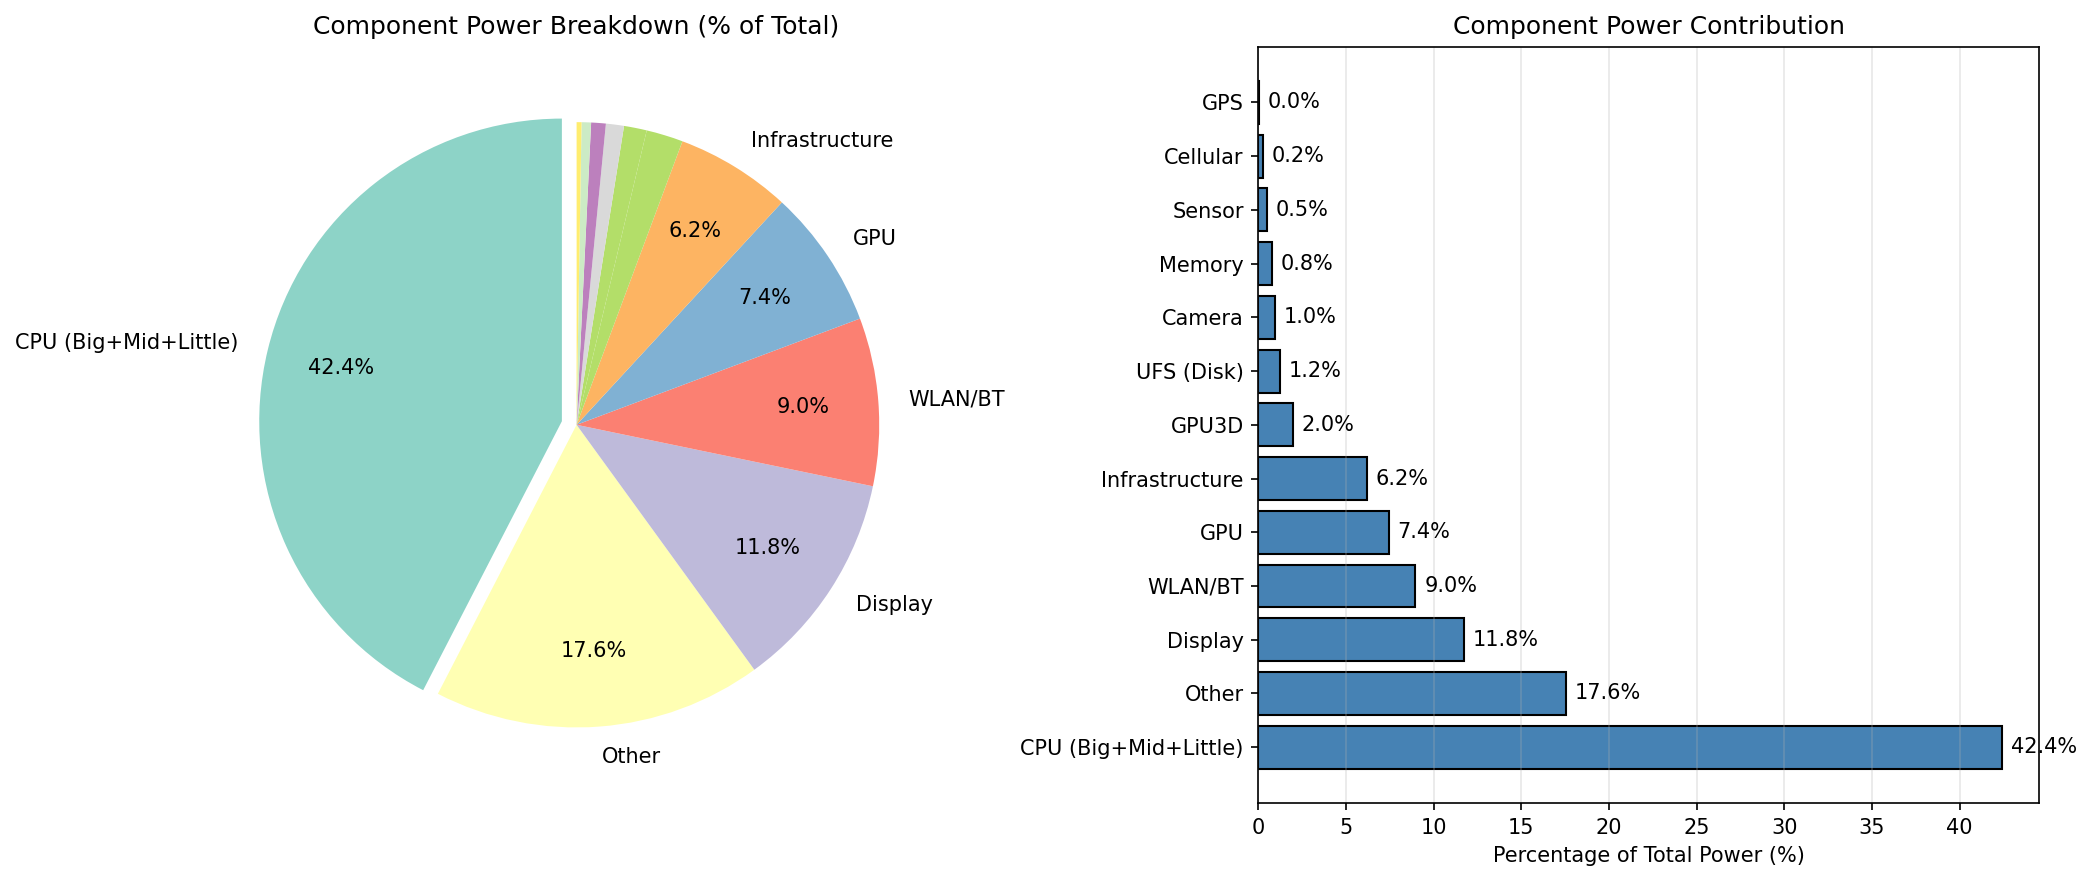
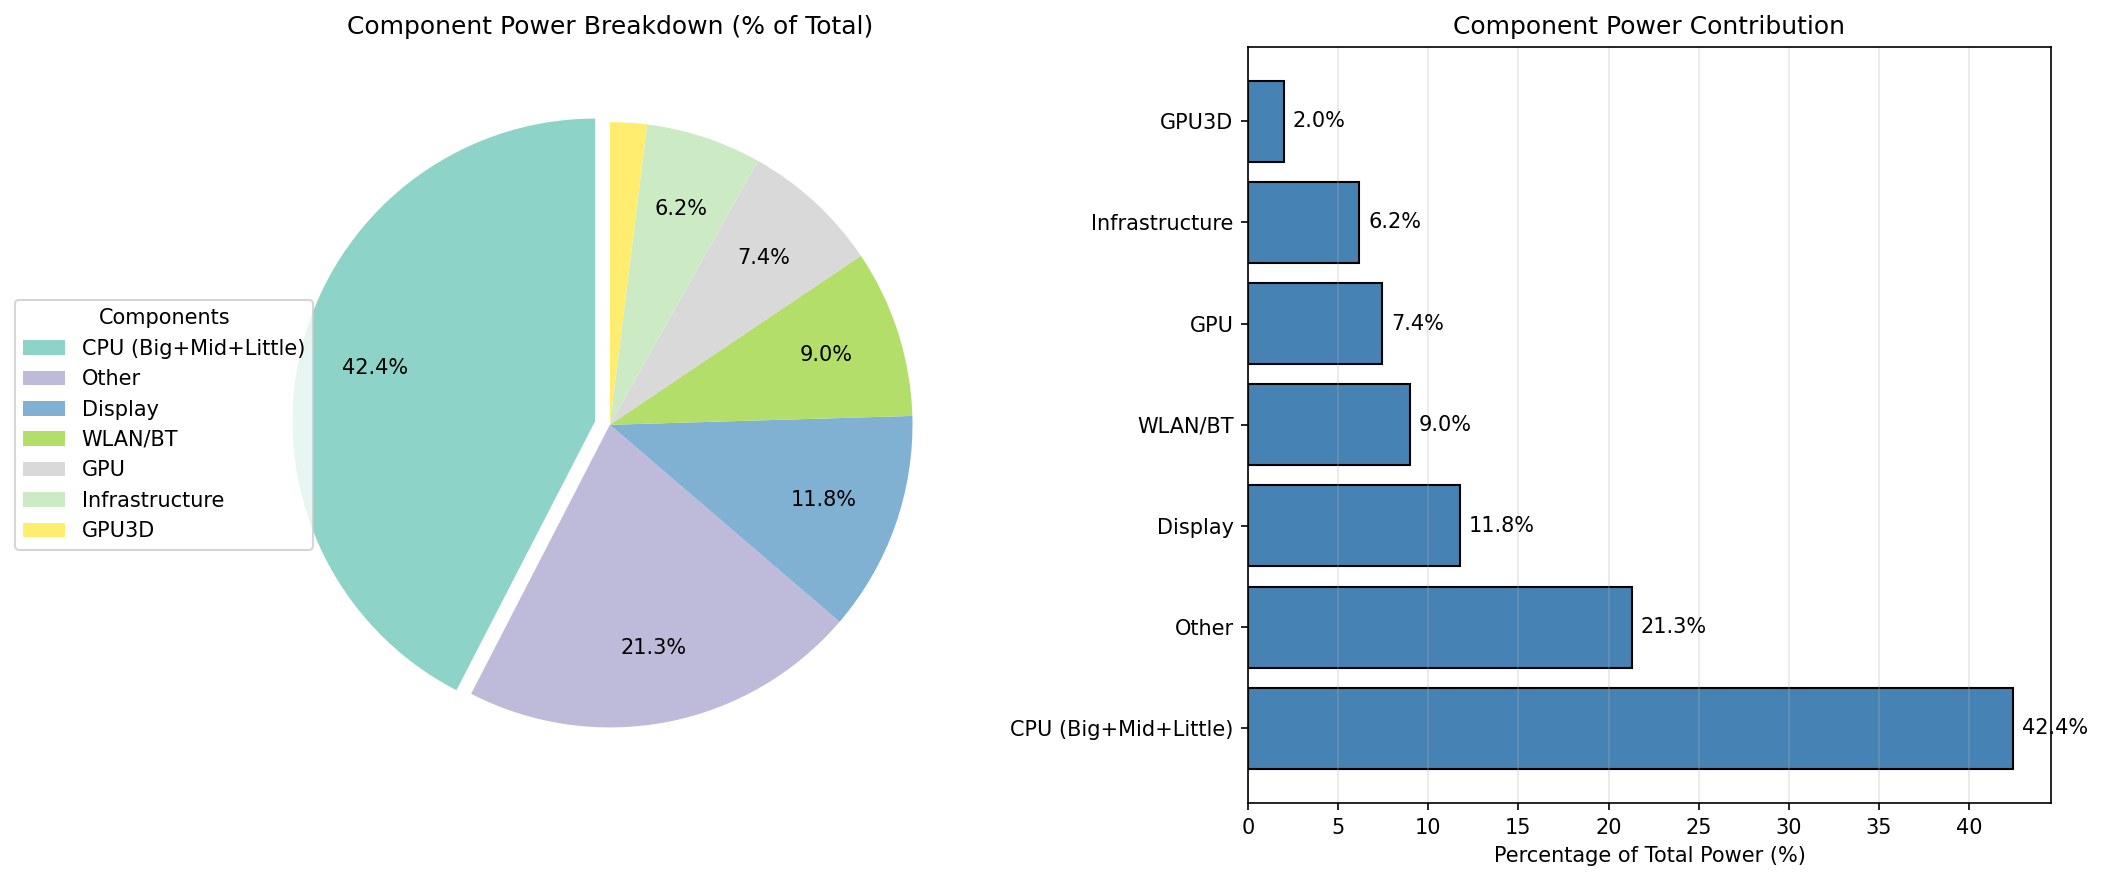
Regenerate Fig 4 and Fig 10 to match paper table data (Other = 21.2%)
- Group smaller components (UFS, Camera, Memory, Sensor, Cellular, GPS) into "Other"
- Both figures now show 7 categories matching the table:
  CPU 42.4%, Other 21.3%, Display 11.8%, WLAN/BT 9.0%, GPU 7.4%,
  Infrastructure 6.2%, GPU3D 2.0%
- No overlapping labels - small slices (<3%) hidden
- Pie chart and bar chart data now consistent

diff --git a/zenodo_data_analyzer.py b/zenodo_data_analyzer.py
@@ -510,19 +510,34 @@ class ZenodoDataAnalyzer:
     
     def _plot_component_breakdown(self, output_dir: str):
         """Plot component power breakdown"""
+        # Match the table in documentation: 7 categories with "Other" = 21.2%
         fig, axes = plt.subplots(1, 2, figsize=(14, 6))
         
         # Pie chart
         ax1 = axes[0]
-        labels = list(self.results.component_percentages.keys())
-        sizes = [self.results.component_percentages[l] for l in labels]
         
-        # Add "Other" category for missing percentage to ensure total = 100%
-        total_pct = sum(sizes)
-        if total_pct < 100 - 0.01:  # Use tolerance for floating point comparison
-            other_pct = 100 - total_pct
-            labels.append('Other')
-            sizes.append(other_pct)
+        # Define major components to show individually (matches table in documentation)
+        major_components = ['CPU (Big+Mid+Little)', 'Display', 'WLAN/BT', 'GPU', 'Infrastructure', 'GPU3D']
+        
+        labels = []
+        sizes = []
+        other_pct = 0.0
+        
+        for comp, pct in self.results.component_percentages.items():
+            if comp in major_components:
+                labels.append(comp)
+                sizes.append(pct)
+            else:
+                # Group smaller components (UFS, Camera, Memory, Sensor, Cellular, GPS) into "Other"
+                other_pct += pct
+        
+        # Add remaining untracked percentage to "Other" to ensure total = 100%
+        total_tracked = sum(sizes) + other_pct
+        if total_tracked < 100 - 0.01:
+            other_pct += 100 - total_tracked
+        
+        labels.append('Other')
+        sizes.append(other_pct)
         
         # Sort by size
         sorted_data = sorted(zip(labels, sizes), key=lambda x: -x[1])
@@ -541,13 +556,12 @@ class ZenodoDataAnalyzer:
         def autopct_func(pct):
             return f'{pct:.1f}%' if pct >= min_label_pct else ''
         
-        # Custom label function: only show label if percentage >= threshold
-        display_labels = [l if s >= min_label_pct else '' for l, s in zip(labels, sizes)]
-        
         wedges, texts, autotexts = ax1.pie(
-            sizes, labels=display_labels, autopct=autopct_func, startangle=90,
+            sizes, labels=None, autopct=autopct_func, startangle=90,
             colors=colors, explode=explode, pctdistance=0.75
         )
+        ax1.legend(wedges, labels, title="Components", loc="center left", 
+                  bbox_to_anchor=(-0.3, 0.5))
         ax1.set_title('Component Power Breakdown (% of Total)')
         
         # Bar chart
